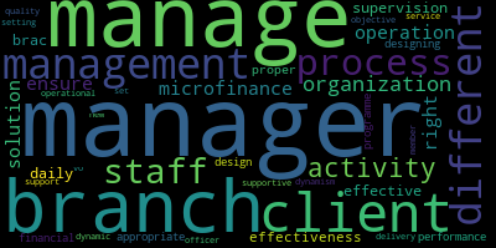
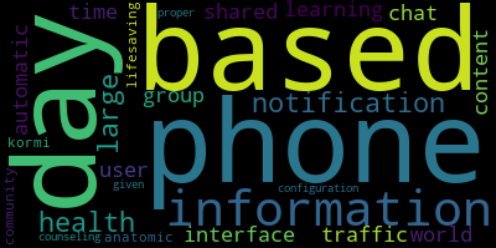
added model

diff --git a/documents/migrations/0001_initial.py b/documents/migrations/0001_initial.py
@@ -1,0 +1,44 @@
+# Generated by Django 2.2.3 on 2019-07-19 16:07
+
+from django.conf import settings
+from django.db import migrations, models
+import django.db.models.deletion
+
+
+class Migration(migrations.Migration):
+
+    initial = True
+
+    dependencies = [
+        migrations.swappable_dependency(settings.AUTH_USER_MODEL),
+    ]
+
+    operations = [
+        migrations.CreateModel(
+            name='DocumentModel',
+            fields=[
+                ('id', models.AutoField(auto_created=True, primary_key=True, serialize=False, verbose_name='ID')),
+                ('document', models.FileField(upload_to='documents/')),
+                ('title', models.CharField(max_length=512)),
+                ('author', models.TextField(max_length=128)),
+                ('uploaded_at', models.DateTimeField(auto_now_add=True)),
+                ('uploader', models.ForeignKey(on_delete=django.db.models.deletion.CASCADE, to=settings.AUTH_USER_MODEL)),
+            ],
+        ),
+        migrations.CreateModel(
+            name='KeywordModel',
+            fields=[
+                ('id', models.AutoField(auto_created=True, primary_key=True, serialize=False, verbose_name='ID')),
+                ('text', models.CharField(max_length=32)),
+                ('document', models.ManyToManyField(to='documents.DocumentModel')),
+            ],
+        ),
+        migrations.CreateModel(
+            name='CitationModel',
+            fields=[
+                ('id', models.AutoField(auto_created=True, primary_key=True, serialize=False, verbose_name='ID')),
+                ('cited_by', models.ManyToManyField(related_name='cited_me', to='documents.DocumentModel')),
+                ('cited_to', models.ManyToManyField(related_name='i_cited', to='documents.DocumentModel')),
+            ],
+        ),
+    ]

diff --git a/documents/views.py b/documents/views.py
@@ -1,31 +1,47 @@
 from django.shortcuts import render, redirect
 from .forms import DocumentForm
-from .models import DocumentModel
+from .models import DocumentModel, KeywordModel
 import os
 from .ocr import extract_text
 from KnowledgeRepository.settings import MEDIA_ROOT
 from . import summakeywords
 from . import wordart
+from django.http import HttpResponse
 
 
 def upload(request):
     if request.method == 'POST':
         form = DocumentForm(request.POST, request.FILES)
         if form.is_valid():
-            obj = form.save()
-            document_path = DocumentModel.objects.get(pk=obj.pk).document
-            full_path = str(os.path.join(MEDIA_ROOT, str(document_path)))
 
+            print("came here")
+
+            obj = form.save()
+            document = DocumentModel.objects.get(pk=obj.pk)
+            document_path = document.document
+            document.uploader = request.user.pk
+            document.save()
+
+            full_path = str(os.path.join(MEDIA_ROOT, str(document_path)))
             is_pdf = True if full_path.split(".")[-1].lower() == 'pdf' else False
             text = extract_text(full_path, is_pdf=is_pdf)
+
             keywords = summakeywords.generate_summa_keywords(text, 'temp/keywords.txt')
             wordart.generate_word_art('temp/keywords.txt', outputfile='wordart')
 
-            return redirect('feed')
+            context = {
+                'keywords': keywords[0:min(10, len(keywords))]
+            }
+
+            return
     else:
         form = DocumentForm()
         print(form.as_p())
     return render(request, 'documents/upload.html', {
         'form': form
     })
+
+
+def add_optional_data(request):
+    return HttpResponse("nothing")
 

diff --git a/documents/models.py b/documents/models.py
@@ -1,13 +1,16 @@
 from django.db import models
 from django.contrib.auth.models import User
+from django.contrib.postgres.search import SearchVectorField
 
 
 class DocumentModel(models.Model):
     document = models.FileField(upload_to='documents/', null=False)
     title = models.CharField(max_length=512, null=False)
     author = models.TextField(max_length=128, null=False)
-    uploader = models.ForeignKey(User, on_delete=models.CASCADE)  # todo: set current user as author
+    uploader = models.IntegerField(default=1)  # todo: set current user as author
     uploaded_at = models.DateTimeField(auto_now_add=True)
+    ts_vector = SearchVectorField(null=True)
+    word_art = models.ImageField(null=True)
 
 
 class KeywordModel(models.Model):
@@ -16,5 +19,5 @@ class KeywordModel(models.Model):
 
 
 class CitationModel(models.Model):
-    cited_by = models.ManyToManyField(DocumentModel, null=False)
-    cited_to = models.ManyToManyField(DocumentModel, null=False)
+    cited_by = models.ManyToManyField(DocumentModel, related_name='cited_me')
+    cited_to = models.ManyToManyField(DocumentModel, related_name='i_cited')

diff --git a/documents/migrations/0003_documentmodel_ts_vector.py b/documents/migrations/0003_documentmodel_ts_vector.py
@@ -1,0 +1,19 @@
+# Generated by Django 2.2.3 on 2019-07-19 16:46
+
+import django.contrib.postgres.search
+from django.db import migrations
+
+
+class Migration(migrations.Migration):
+
+    dependencies = [
+        ('documents', '0002_auto_20190719_2219'),
+    ]
+
+    operations = [
+        migrations.AddField(
+            model_name='documentmodel',
+            name='ts_vector',
+            field=django.contrib.postgres.search.SearchVectorField(null=True),
+        ),
+    ]

diff --git a/documents/migrations/0004_documentmodel_word_art.py b/documents/migrations/0004_documentmodel_word_art.py
@@ -1,0 +1,18 @@
+# Generated by Django 2.2.3 on 2019-07-19 16:47
+
+from django.db import migrations, models
+
+
+class Migration(migrations.Migration):
+
+    dependencies = [
+        ('documents', '0003_documentmodel_ts_vector'),
+    ]
+
+    operations = [
+        migrations.AddField(
+            model_name='documentmodel',
+            name='word_art',
+            field=models.ImageField(null=True, upload_to=''),
+        ),
+    ]

diff --git a/documents/migrations/0002_auto_20190719_2219.py b/documents/migrations/0002_auto_20190719_2219.py
@@ -1,0 +1,18 @@
+# Generated by Django 2.2.3 on 2019-07-19 16:19
+
+from django.db import migrations, models
+
+
+class Migration(migrations.Migration):
+
+    dependencies = [
+        ('documents', '0001_initial'),
+    ]
+
+    operations = [
+        migrations.AlterField(
+            model_name='documentmodel',
+            name='uploader',
+            field=models.IntegerField(default=1),
+        ),
+    ]

diff --git a/user_profile/views.py b/user_profile/views.py
@@ -15,7 +15,6 @@ def login(request):
             messages.success(request, 'You are now logged in')
             return redirect('feed')
         else:
-            # todo: why isn't message working?
             messages.error(request, 'Invalid credentials')
             return redirect('login')
     else:

diff --git a/documents/forms.py b/documents/forms.py
@@ -5,5 +5,4 @@ from .models import DocumentModel
 class DocumentForm(forms.ModelForm):
     class Meta:
         model = DocumentModel
-        # fields = ('description', 'document', )
-        fields = ('document', )
+        fields = ('document', 'title', 'author')

diff --git a/KnowledgeRepository/settings.py b/KnowledgeRepository/settings.py
@@ -90,7 +90,7 @@ DATABASES = {
         'ENGINE': 'django.db.backends.postgresql',
         'NAME': 'bracathon',
         'USER': 'postgres',
-        'PASSWORD': 'pg123',
+        'PASSWORD': 'getshitdone',
         'HOST': 'localhost',
         'PORT': 5432
     }
